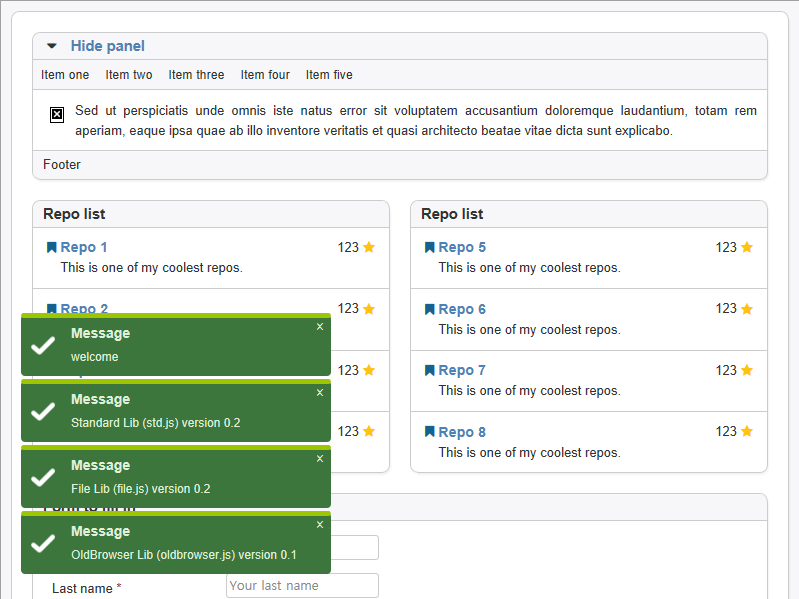
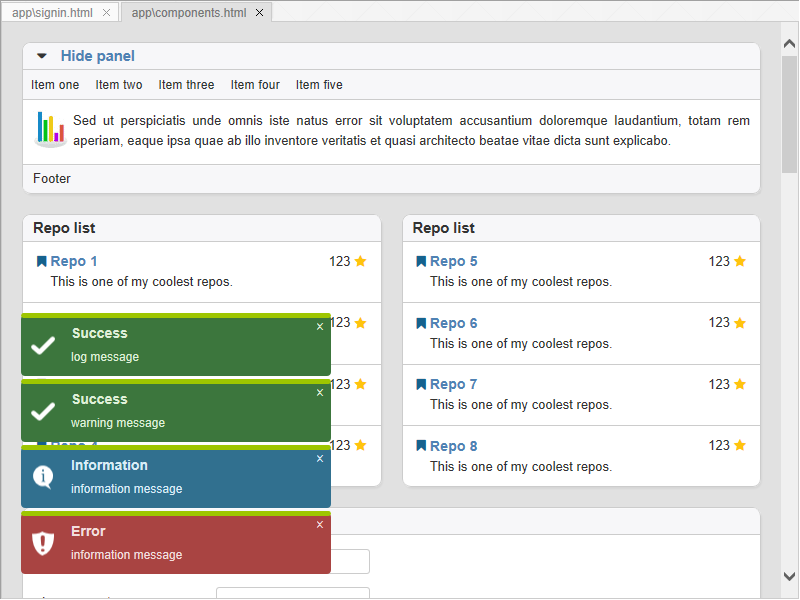
Change the screenshot and add ui components example page

diff --git a/app/components.html b/app/components.html
@@ -1,0 +1,314 @@
+<div class="cell">
+    <div class="col">
+        <div class="panel cell collapsible">
+            <div class="header collapse-trigger">
+                <span class="icon icon-collapse"></span>
+                <a href="#">
+                    <span class="collapsed-only">Show</span>
+                    <span class="uncollapsed-only">Hide</span> panel
+                </a>
+            </div>
+            <div class="menu collapse-section">
+                <div class="header">
+                    <ul class="nav">
+                        <li class="active"><a href="#">Item one</a></li>
+                        <li><a href="#">Item two</a></li>
+                        <li><a href="#">Item three</a></li>
+                        <li><a href="#">Item four</a></li>
+                        <li><a href="#">Item five</a></li>
+                    </ul>
+                </div>
+            </div>
+            <div class="body collapse-section">
+                <div class="cell">
+                    <p class="no-margin"><img src="app/assets/img/stats.gif" class="top-left-image">Sed ut perspiciatis unde omnis iste natus error sit voluptatem accusantium doloremque laudantium, totam rem aperiam, eaque ipsa quae ab illo inventore veritatis et quasi architecto beatae vitae dicta sunt explicabo.</p>
+
+                </div>
+            </div>
+            <div class="footer collapse-section">Footer</div>
+        </div>
+    </div>
+    <div class="col width-1of2">
+        <div class="panel cell">
+            <div class="header">Repo list</div>
+            <div class="body">
+                <div class="cell">
+                    <div class="col">
+                        <div class="col width-fit mobile-width-fit"><span class="icon icon-bookmark color-blue"></span></div>
+                        <div class="col width-fill mobile-width-fill">
+                            <span class="float-right">
+                                <span class="text">
+                                    123
+                                </span>
+                                <span class="icon icon-star color-yellow"></span>
+                            </span>
+                            <div class="col width-fill mobile-width-fill">
+                                <a class="fatty" href="#">Repo 1</a>
+                            </div>
+                            <div class="col">This is one of my coolest repos.</div>
+                        </div>
+                    </div>
+                </div>
+            </div>
+            <div class="body">
+                <div class="cell">
+                    <div class="col">
+                        <div class="col width-fit mobile-width-fit"><span class="icon icon-bookmark color-blue"></span></div>
+                        <div class="col width-fill mobile-width-fill">
+                            <span class="float-right">
+                                <span class="text">
+                                    123
+                                </span>
+                                <span class="icon icon-star color-yellow"></span>
+                            </span>
+                            <div class="col width-fill mobile-width-fill">
+                                <a class="fatty" href="#">Repo 2</a>
+                            </div>
+                            <div class="col">This is one of my coolest repos.</div>
+                        </div>
+                    </div>
+                </div>
+            </div>
+            <div class="body">
+                <div class="cell">
+                    <div class="col">
+                        <div class="col width-fit mobile-width-fit"><span class="icon icon-bookmark color-blue"></span></div>
+                        <div class="col width-fill mobile-width-fill">
+                            <span class="float-right">
+                                <span class="text">
+                                    123
+                                </span>
+                                <span class="icon icon-star color-yellow"></span>
+                            </span>
+                            <div class="col width-fill mobile-width-fill">
+                                <a class="fatty" href="#">Repo 3</a>
+                            </div>
+                            <div class="col">This is one of my coolest repos.</div>
+                        </div>
+                    </div>
+                </div>
+            </div>
+            <div class="body">
+                <div class="cell">
+                    <div class="col">
+                        <div class="col width-fit mobile-width-fit"><span class="icon icon-bookmark color-blue"></span></div>
+                        <div class="col width-fill mobile-width-fill">
+                            <span class="float-right">
+                                <span class="text">
+                                    123
+                                </span>
+                                <span class="icon icon-star color-yellow"></span>
+                            </span>
+                            <div class="col width-fill mobile-width-fill">
+                                <a class="fatty" href="#">Repo 4</a>
+                            </div>
+                            <div class="col">This is one of my coolest repos.</div>
+                        </div>
+                    </div>
+                </div>
+            </div>
+        </div>
+    </div>
+    <div class="col width-fill">
+        <div class="panel cell">
+            <div class="header">Repo list</div>
+            <div class="body">
+                <div class="cell">
+                    <div class="col">
+                        <div class="col width-fit mobile-width-fit"><span class="icon icon-bookmark color-blue"></span></div>
+                        <div class="col width-fill mobile-width-fill">
+                            <span class="float-right">
+                                <span class="text">
+                                    123
+                                </span>
+                                <span class="icon icon-star color-yellow"></span>
+                            </span>
+                            <div class="col width-fill mobile-width-fill">
+                                <a class="fatty" href="#">Repo 5</a>
+                            </div>
+                            <div class="col">This is one of my coolest repos.</div>
+                        </div>
+                    </div>
+                </div>
+            </div>
+            <div class="body">
+                <div class="cell">
+                    <div class="col">
+                        <div class="col width-fit mobile-width-fit"><span class="icon icon-bookmark color-blue"></span></div>
+                        <div class="col width-fill mobile-width-fill">
+                            <span class="float-right">
+                                <span class="text">
+                                    123
+                                </span>
+                                <span class="icon icon-star color-yellow"></span>
+                            </span>
+                            <div class="col width-fill mobile-width-fill">
+                                <a class="fatty" href="#">Repo 6</a>
+                            </div>
+                            <div class="col">This is one of my coolest repos.</div>
+                        </div>
+                    </div>
+                </div>
+            </div>
+            <div class="body">
+                <div class="cell">
+                    <div class="col">
+                        <div class="col width-fit mobile-width-fit"><span class="icon icon-bookmark color-blue"></span></div>
+                        <div class="col width-fill mobile-width-fill">
+                            <span class="float-right">
+                                <span class="text">
+                                    123
+                                </span>
+                                <span class="icon icon-star color-yellow"></span>
+                            </span>
+                            <div class="col width-fill mobile-width-fill">
+                                <a class="fatty" href="#">Repo 7</a>
+                            </div>
+                            <div class="col">This is one of my coolest repos.</div>
+                        </div>
+                    </div>
+                </div>
+            </div>
+            <div class="body">
+                <div class="cell">
+                    <div class="col">
+                        <div class="col width-fit mobile-width-fit"><span class="icon icon-bookmark color-blue"></span></div>
+                        <div class="col width-fill mobile-width-fill">
+                            <span class="float-right">
+                                <span class="text">
+                                    123
+                                </span>
+                                <span class="icon icon-star color-yellow"></span>
+                            </span>
+                            <div class="col width-fill mobile-width-fill">
+                                <a class="fatty" href="#">Repo 8</a>
+                            </div>
+                            <div class="col">This is one of my coolest repos.</div>
+                        </div>
+                    </div>
+                </div>
+            </div>
+        </div>
+    </div>
+    <div class="col">
+        <div class="cell panel">
+            <div class="header">
+                Form to fill in
+            </div>
+            <div class="body">
+                <div class="cell">
+                    <form action="#" method="post">
+                        <div class="col">
+                            <div class="col width-1of4">
+                                <div class="cell">
+                                    <label for="firstname">First name<span class="color-red"> *</span></label>
+                                </div>
+                            </div>
+                            <div class="col width-fill">
+                                <div class="cell">
+                                    <input type="text" id="firstname" placeholder="Your first name" data-required="true" data-error-message="First name is required" class="parsley-validated text">
+                                </div>
+                            </div>
+                        </div>
+                        <div class="col">
+                            <div class="col width-1of4">
+                                <div class="cell">
+                                    <label for="lastname">Last name<span class="color-red"> *</span></label>
+                                </div>
+                            </div>
+                            <div class="col width-fill">
+                                <div class="cell">
+                                    <input type="text" id="lastname" placeholder="Your last name" data-required="true" data-error-message="Last name is required" class="parsley-validated text">
+                                </div>
+                            </div>
+                        </div>
+                        <div class="col">
+                            <div class="col width-1of4">
+                                <div class="cell">
+                                    <label for="country">Country</label>
+                                </div>
+                            </div>
+                            <div class="col width-fill">
+                                <div class="cell">
+                                    <select id="country">
+                                        <option>Canada</option>
+                                        <option>Mexico</option>
+                                        <option>USA</option>
+                                    </select>
+                                </div>
+                            </div>
+                        </div>
+                        <div class="col">
+                            <div class="col width-1of4">
+                                <div class="cell">
+                                    <label for="male">Gender</label>
+                                </div>
+                            </div>
+                            <div class="col width-fill">
+                                <div class="cell">
+                                    <input name="gender" id="male" type="radio" class="radio">
+                                    <label for="male">Man</label>
+                                    <input name="gender" id="female" type="radio" class="radio">
+                                    <label for="female">Woman</label>
+                                </div>
+                            </div>
+                        </div>
+                        <div class="col">
+                            <div class="col width-1of4">
+                                <div class="cell">
+                                    <label for="occupation">Occupation</label>
+                                </div>
+                            </div>
+                            <div class="col width-fill">
+                                <div class="cell">
+                                    <input type="text" id="occupation" placeholder="Your occupation" class="text">
+                                </div>
+                            </div>
+                        </div>
+                        <div class="col">
+                            <div class="col width-1of4">
+                                <div class="cell">
+                                    <label for="webdev">Hobbies</label>
+                                </div>
+                            </div>
+                            <div class="col width-fill">
+                                <div class="cell">
+                                    <input name="hobbies" id="webdev" type="checkbox" class="checkbox">
+                                    <label for="webdev">Web development</label>
+                                    <input name="hobbies" id="design" type="checkbox" class="checkbox">
+                                    <label for="design">Design</label>
+                                    <input name="hobbies" id="programming" type="checkbox" class="checkbox">
+                                    <label for="programming">Programming</label>
+                                </div>
+                            </div>
+                        </div>
+                        <div class="col">
+                            <div class="col width-1of4">
+                                <div class="cell">
+                                    <label for="comment">Comment<span class="color-red"> *</span></label>
+                                </div>
+                            </div>
+                            <div class="col width-fill">
+                                <div class="cell">
+                                    <textarea id="comment" data-required="true" data-error-message="Comment is required" class="parsley-validated"></textarea>
+                                </div>
+                            </div>
+                        </div>
+                        <div class="col">
+                            <div class="col width-1of4">
+                            </div>
+                            <div class="col width-fill">
+                                <div class="cell">
+                                    <button class="button" type="submit">Submit</button>
+                                </div>
+                            </div>
+                        </div>
+                    </form>
+                </div>
+            </div>
+            <div class="footer">
+                Footer
+            </div>
+        </div>
+    </div>
+</div>

diff --git a/app/index.js b/app/index.js
@@ -81,6 +81,16 @@ Router.add('/notepad', function(render) {
     document.getElementById("useragent").innerHTML = window.navigator.userAgent;
 });
 
+Router.add('/components', function(render) {
+    render("app\\components.html", {});
+
+    console.log("log message");
+    console.warn("warning message");
+    console.info("information message");
+    console.error("information message");
+});
+
+
 // clear
 Browser.setContent("");
 

diff --git a/app/signin.html b/app/signin.html
@@ -81,6 +81,7 @@
                             <ul class="left nav links">
                                 <li><a href="/test">Go to the test page</a></li>
                                 <li><a href="/notepad">WYSIWYG editor</a></li>
+                                <li><a href="/components">UI Components</a></li>
                             </ul>
                         </div>
                     </div>
